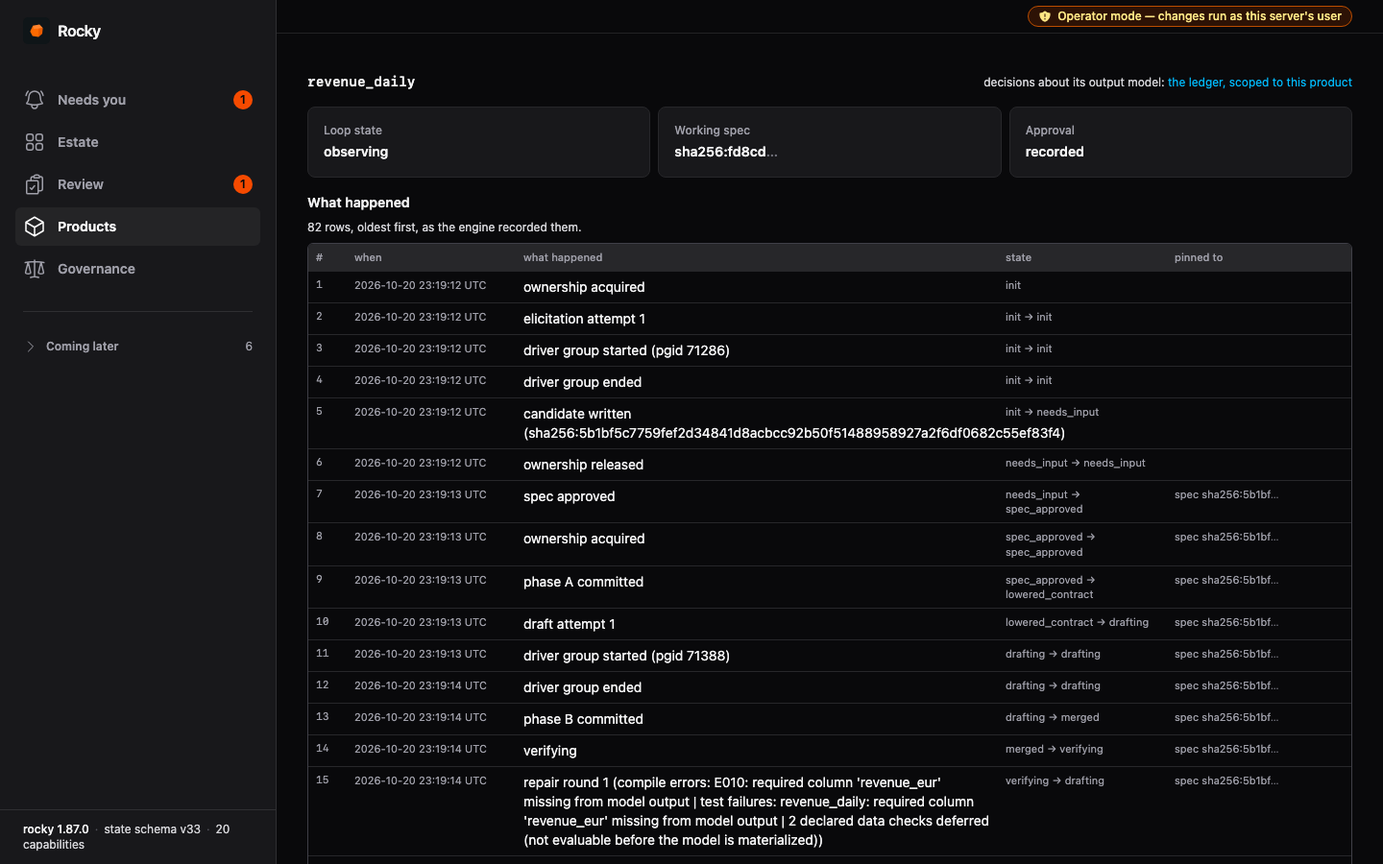
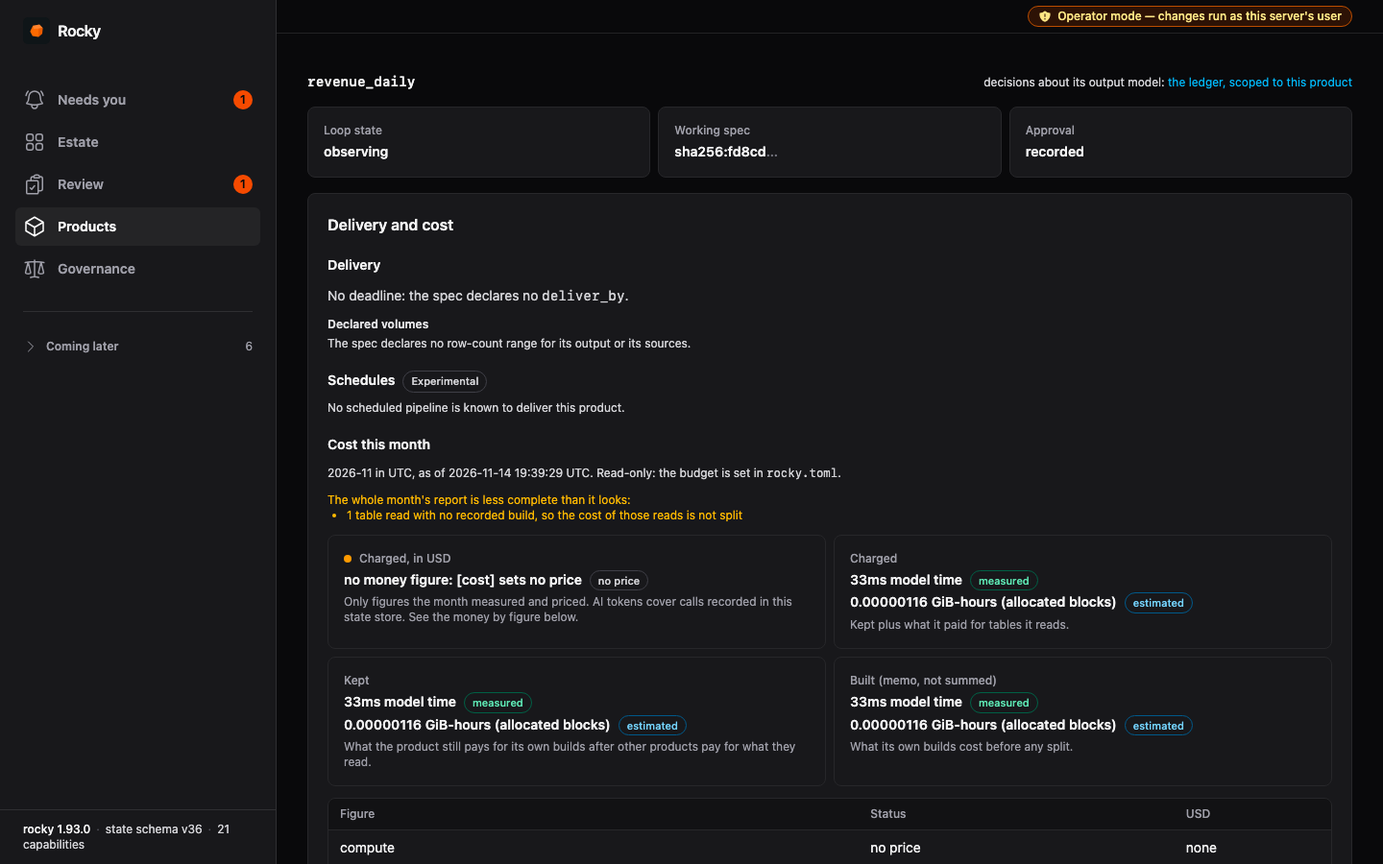
docs: refresh browser UI screenshots for engine 1.93.0; correct two superseded 1.93.0 changelog lines
Recaptured with cli-recording/record-ui-screenshots.sh from the released
1.93.0 binary; the published set showed 1.87.0 and state schema v33. The
product shot now opens on the Delivery and cost panel, so its alt text and
the tour GIF's alt text change too. The custody alt text gives the row
count the shot shows.

Two 1.93.0 Added lines described behaviour that later Fixed entries in the
same release changed (#2582, #2587). They now point to those entries, and
the upgrade notes no longer quote the old wording.

diff --git a/engine/CHANGELOG.md b/engine/CHANGELOG.md
@@ -21,19 +21,19 @@ and this project adheres to [Semantic Versioning](https://semver.org/spec/v2.0.0
   - Two-argument `IFNULL` and `NVL` now type like `COALESCE`. A contract type on such a column that was not checked before is now checked and can fail with `E011`. A column that was nullable can now be NOT NULL, except as a rolled-up key (next item).
   - Under `GROUP BY ROLLUP`, `CUBE` or `GROUPING SETS`, an output over a rolled-up key is now nullable (#2566). A `nullable = false` contract on it now fails with `E012`, because subtotal rows really hold NULL there. Set `nullable = true`. This includes a key that is in every grouping set or that a `HAVING` filters. An unaliased output under an outer join or a `ROLLUP` no longer keeps its source column's NOT NULL bit either.
   - Fewer, smaller changes in the same direction: `UNION`/`INTERSECT`/`EXCEPT BY NAME`, column-list aliases (#2572), `POSITIONAL JOIN`, `UPPER`/`LOWER`, `/` on a DuckDB-only model (a `Decimal` contract on it now fails with `E011`), and BigQuery and Snowflake column nullability. See Fixed.
-- **`rocky ai-contract` and the MCP `ai_contract` tool now read live types from the warehouse.** They describe every source table the drafted model and its upstream models read, and they profile on any configured warehouse, not only DuckDB. The credentials they run with need to describe those source tables and read the profiled table. On a metered warehouse a profile reads the whole table once per column, which costs money; `--sample` is still DuckDB only. Drafts can differ from 1.92.0 for the same model. A table that cannot be described is listed in the new `unresolved_sources`. In JSON, `profiled_table` and `fell_back_from` now carry the catalog when the target has one. Nothing is written to the schema cache or the state store. The MCP grounding tools now address a model target with the quoted `format_table_ref` (#2582, under Fixed); this supersedes the Added entry's "MCP still addresses a model target unquoted".
+- **`rocky ai-contract` and the MCP `ai_contract` tool now read live types from the warehouse.** They describe every source table the drafted model and its upstream models read, and they profile on any configured warehouse, not only DuckDB. The credentials they run with need to describe those source tables and read the profiled table. On a metered warehouse a profile reads the whole table once per column, which costs money; `--sample` is still DuckDB only. Drafts can differ from 1.92.0 for the same model. A table that cannot be described is listed in the new `unresolved_sources`. In JSON, `profiled_table` and `fell_back_from` now carry the catalog when the target has one. Nothing is written to the schema cache or the state store. The MCP grounding tools now address a model target with the quoted `format_table_ref` (#2582, under Fixed).
 - **Full refresh on Trino is now a staged swap that renames tables (RD-009).** This covers transformation and replication full refresh, branch promote and quarantine `mode = "drop"`. The connecting user needs permission to rename tables. On a Trino catalog that cannot rename tables (Hive on Glue), a full refresh of an existing table now fails with the table untouched. A Trino target whose name ends in `__rocky_stage` or `__rocky_old` is refused. Do not run two replacements of the same Trino table at once: one can fail and leave a table to drop by hand. On every warehouse a drift rebuild no longer drops the target first; on BigQuery it now fails, keeping the old table, when the existing table's partitioning or clustering differs. A branch-promote plan written before this release that carries a pre-drop is refused on every warehouse except Trino: re-plan it.
 - **DuckDB discovery no longer finds schemas in attached catalogs.** A replication pipeline that picked up tables from an attached catalog by schema prefix no longer replicates them.
 - **`rocky validate` adds `V067`.** It is an error when a `[connector.<name>]` manifest is missing or invalid, or its `command` names a program path that does not exist. It also refuses `trigger = true` on an Airbyte pipeline without `allow_sync_trigger = true`. Run `rocky validate` before rolling out if CI gates on it.
 - **A webhook spool that hides its entries is now refused, not read as empty (#1903).** On an SMB share with access-based enumeration, `rocky tick` now reports `spool_unreadable`, `rocky doctor` warns and `GET /api/v1/schedule/spool` returns `500`. Give the reading process read access to the spool.
-- **`rocky mcp` and `rocky lsp` now pick the state store as the CLI does (#2587):** `--state-path`, then `--state-namespace`, then `[state] namespacing = "pipeline"`. Under a namespace or an explicit path, `rocky mcp` reads decisions and the review queue from that store, not the default one. This supersedes the Added cost entry's "always use the default state file".
+- **`rocky mcp` and `rocky lsp` now pick the state store as the CLI does (#2587):** `--state-path`, then `--state-namespace`, then `[state] namespacing = "pipeline"`. Under a namespace or an explicit path, `rocky mcp` reads decisions and the review queue from that store, not the default one.
 - **`rocky cost --month` for the month you upgrade reports `ai_tokens` as `partial`.** AI usage is recorded from the first open at v35 on. If that month has recorded calls, the whole money total is `partial`, and a `max_usd` budget is `not_evaluated` unless the priced figures alone exceed it. Set `[cost] ai_cost_per_million_tokens` (and `cross_region_transfer_cost_per_gb` for egress), or those figures report `no_price`.
 - **Rust library API.** `SqlDialect::full_refresh_needs_predrop` is replaced by `SqlDialect::table_replace` and `SqlDialect::rename_table_sql`. `DiscoveryAdapter::source_sync_states` takes the `include` filter as a second argument. DuckDB `[[attach]]` entries are now the tagged enum `DuckDbAttach`; the Iceberg TOML is unchanged.
 
 ### Added
 
 - A scheduled run that a freeze held no longer spends its retries on a run that cannot succeed (#2569). When an active freeze marker withholds work, `rocky run` records a `hold` (`kind = "freeze"`, `freeze_id`, `scope`, `reason`) on the run record and on `RunOutput`. The exit code does not change. The scheduler reads it from the run record: no in-tick retry, `consecutive_failures` stays as it is, and the cursor records `freeze_hold`. A standing demand is re-probed every 15 minutes, a flat interval. A held cron or webhook occurrence is finished and not re-run when the freeze lifts. The first held run writes one `freeze_hold` incident bundle that names the freeze; later runs held by the same freeze write none, until a run that is not held, or a different freeze, starts a new episode. A held run counts as a hold even when it had other failures too. `rocky tick` counts held runs in the new `counts.held`, not in `counts.failed` or `counts.partial`, and a hold alone does not fail the tick. New public enum values: the skip reason `freeze_hold` (tick output, `rocky.scheduler.skipped` metric label) and the `rocky schedule status` throttle kind `freeze_hold`; a consumer with a closed enum must add them. `ExecutedRunOutput.hold` names the freeze. A run the fence stopped because the marker listing failed has no `hold`, and it stays an ordinary retryable failure. The run record and the cursor take the new fields without a schema bump.
-- `rocky profile` and `rocky ai-contract` run on any configured warehouse, not only DuckDB. The table reference comes from the adapter's dialect: the target gets the quoted `format_table_ref` that `rocky run` writes with, and a source fallback gets the unquoted `ground_table_ref`, so Snowflake still folds its case. Before, Rocky built a bare `schema.table` with no catalog and no quoting. A profile reads the whole table once per column, which costs money on a metered warehouse. `--sample` stays DuckDB only: on another warehouse the profile reports `unavailable`. `profiled_table` and `fell_back_from` now carry the catalog when the model's target has one (`wh.staging.raw_orders`, was `staging.raw_orders`). Rocky checks the table exists with a zero-row query through the exact ref it will profile, and a name the dialect cannot address makes the profile `unavailable`, not an error. A count the warehouse returns in a form Rocky cannot read is now an error: before, it was read as 0, which could back a wrong `nullable = false` draft. The MCP `ai_contract` tool now profiles with the same `profile_column` as the CLI, in its statistics-only mode. MCP still addresses a model target unquoted (#2582).
+- `rocky profile` and `rocky ai-contract` run on any configured warehouse, not only DuckDB. The table reference comes from the adapter's dialect: the target gets the quoted `format_table_ref` that `rocky run` writes with, and a source fallback gets the unquoted `ground_table_ref`, so Snowflake still folds its case. Before, Rocky built a bare `schema.table` with no catalog and no quoting. A profile reads the whole table once per column, which costs money on a metered warehouse. `--sample` stays DuckDB only: on another warehouse the profile reports `unavailable`. `profiled_table` and `fell_back_from` now carry the catalog when the model's target has one (`wh.staging.raw_orders`, was `staging.raw_orders`). Rocky checks the table exists with a zero-row query through the exact ref it will profile, and a name the dialect cannot address makes the profile `unavailable`, not an error. A count the warehouse returns in a form Rocky cannot read is now an error: before, it was read as 0, which could back a wrong `nullable = false` draft. The MCP `ai_contract` tool now profiles with the same `profile_column` as the CLI, in its statistics-only mode. The MCP tools then still addressed a model target unquoted; #2582, under Fixed, gives them the quoted `format_table_ref`.
 - A `type = "duckdb"` adapter can attach a DuckLake catalog: `[[adapter.<name>.attach]]` with `type = "ducklake"`, `alias`, `metadata_path` (a local DuckDB file) and an optional local `data_path` (an `s3://` data path is refused until it has a conformance case). `rocky run` writes models whose target catalog is the alias as DuckLake tables. A full refresh is an atomic `CREATE OR REPLACE TABLE`. `full_refresh`, `ephemeral`, `incremental`, `merge`, `delete_insert`, `time_interval` and replication are supported; `view`, `materialized_view`, `dynamic_table`, `microbatch`, `content_addressed`, `snapshot`, a lakehouse `format`, seeds, `rocky load`, quarantine and promote are refused before any SQL runs; a promote plan is refused when it is built and checked for every step before apply's first write. Rocky makes relative paths absolute, never overrides the lake's stored data path, and refuses a lake whose stored data path is relative. A `metadata_path` holding a `:` (`sqlite:`, `postgres:`, `:memory:`) is refused by `rocky validate`. `[[attach]]` entries are now a tagged enum (`DuckDbAttach::Iceberg` / `DuckDbAttach::DuckLake`) in `rocky-core`; the Iceberg TOML is unchanged. A live test runs in the non-required `ducklake-conformance` workflow; see `docs/adr/ADR-DUCKLAKE.md` and the `07-adapters/13-duckdb-ducklake` POC.
 - A `type = "duckdb"` adapter can attach Iceberg REST catalogs with `[[adapter.<name>.attach]]` (`alias`, `type = "iceberg"`, `warehouse`, `endpoint`, `authorization = "none"`, and an `s3` table that becomes a temporary DuckDB secret). `rocky run` and every other connecting command attach them; `rocky compile`, `rocky plan` and `rocky emit-sql` never connect, but render with the same aliases. A model whose target catalog is an alias is written as an Iceberg table. A first build is `CREATE TABLE … AS`. A full refresh of an existing table is one transaction: the model's rows go to a temporary table first (so a model that reads its own table sees the old rows), `ALTER TABLE` adds new columns, drops removed ones and widens types (`INTEGER` to `BIGINT`, `FLOAT` to `DOUBLE`, a wider `DECIMAL` precision), then `DELETE` and `INSERT … BY NAME`, then `COMMIT`. Any failure rolls it back and keeps the old table and rows. A `COMMIT` that fails without saying why is reported as possibly committed. A re-run with no change runs no `ALTER`. A narrowing, a nested type change, a new nested column or dropping a partition column is refused with the table unchanged. With more than one attachment, each `s3` table needs a `scope`. A commit conflict with another writer runs the transaction again, up to 3 times. Append `incremental` is supported too. Everything else on an attached catalog is refused before any model runs, naming the strategy and the catalog: views, `merge`, `incremental` with a `unique_key` or a `lookback`, `delete_insert`, `time_interval`, `microbatch`, snapshots, quarantine, branch promote, seeds, `rocky load`, a lakehouse `format`, a replication full refresh of an existing table, and replacing an object of another kind. New: `SqlDialect::table_replace` can return `TableReplace::InPlaceOverwrite`, and `WarehouseAdapter::overwrite_in_place` runs it. POC: `07-adapters/09-duckdb-iceberg-rest`. ADR: `docs/adr/ADR-ICEBERG-DUCKDB.md`.
 - `rocky validate` checks each `[connector.<name>]` manifest offline (`V067`): `ok` when the manifest reads and its program exists, and an error when the manifest is missing or invalid, or when its `command` names a program path that does not exist. A bare program name is looked up on `PATH` at run time and is not checked.
@@ -41,7 +41,7 @@ and this project adheres to [Semantic Versioning](https://semver.org/spec/v2.0.0
 - `[pipeline.<name>.source.discovery.sync]` now works on an Airbyte discovery adapter, not only on Fivetran. `wait = true` waits for a running Airbyte job before `rocky run` reads the source. `trigger = true` starts one sync first, with `POST /v1/jobs` and `jobType = "sync"`, never a reset. It needs the same two opt-ins as Fivetran: `allow_sync_trigger = true` on `[adapter.<name>]` and `trigger = true` on the pipeline. Without the adapter's opt-in the Airbyte adapter sends no request. Each poll reads the connection list and the 25 newest jobs of each active selected connection, up to 10 reads at a time. The jobs must come newest first, or the read fails. A connection is syncing while its newest job has not ended, a reset or clear included. A stale unended job behind a newer ended one is ignored. `succeeded_at` and `failed_at` are the latest `lastUpdatedAt` of a `sync` or `refresh` job that succeeded, or that failed or was cancelled. A `reset` or `clear` job sets neither. An `inactive` connection, or one with an unknown status, counts as paused and its jobs are not read. A `deprecated` one is left out. A `2xx` answer to the sync request counts only if its body is a `sync` job, and a connect timeout is `Failed`, not `Unknown`. A `409` (a sync already runs) is waited out and not counted, as on Fivetran. `rocky validate` now accepts `wait = true` on `type = "airbyte"`, and refuses `trigger = true` there without `allow_sync_trigger = true`. New page: the Airbyte adapter reference.
 - An `error` volume breach on a product output now stays open until the output is rebuilt (#2581). Before, it failed the model only in the run that wrote the breached rows. The next in-range load passed and downstream built on the breached rows. Now the breach opens a marker in the new replicated state table `product_volume_breaches` (state schema 36). While a marker is open, every run that builds the model fails it, even when that run's load is in range, so downstream stays withheld. The load still writes its rows. The error names when the breach opened, the breached partitions, and the two ways to clear it. A rebuild clears the marker once it is judged in range: for an incremental, merge or full-refresh output, a build that created or replaced the whole table (a first run, `--full-refresh`, a drift rebuild); for a time-interval output, a rewrite of each breached partition (`--missing`, `--partition`, `--from`/`--to`). The marker goes when its last partition is clear. The new `rocky product clear-breach <name> --model <model>` deletes a marker by hand, and reports whether one was open. `rocky product status` gains `open_volume_breaches`, and `VolumeCheckOutput` gains `held_by_open_breach`. A `warning` breach opens no marker. A shadow or branch run neither reads nor writes markers. A marker is written right after the model's judgment. A failed write of a new marker fails the model. A failed delete only warns, and the marker stays. A v35 store opened for writing gets the empty table. A run that does not build a held output (`rocky run --model <downstream>`) withholds the models downstream of it, with the same message, so they do not build over the breached rows. A cancel after the write no longer skips the count, so a breach the cancelled run wrote still opens its marker. `rocky product clear-breach` reads `[state]` from `rocky.toml` and clears the marker inside a remote-state session: it downloads the state first, refuses when the download fails, and uploads the delete before it reports `was_open: true`. `rocky product status` reads the local state file only; with a remote state backend it now warns that its open breaches may lag another machine. On Valkey, or with `concurrency_control = "off"`, `clear-breach` warns that a run already in flight can upload the marker back. The `--skip-unchanged` gate always builds a held output, so the check can fail it. With a remote backend the marker reaches other machines when the run uploads its state, under the run's `on_upload_failure` policy; an ungoverned run whose state download fails continues without it, as for any state table.
 - `[product.output.volume]` now works on incremental, merge and time-interval outputs, not only full-refresh ones. On those outputs the range judges one load, not the table's total. An incremental output counts the rows its `INSERT` added, as the adapter reports them. With no report, it uses the table's `COUNT(*)` after the write minus its `COUNT(*)` before. When both exist and differ, the verdict is `not_evaluated`. This assumes the run is the table's only writer: another writer makes the two disagree, or, with no reported count, shifts the growth. A merge output, or an incremental one with a `unique_key`, counts the rows its one `MERGE` inserted or updated, as the warehouse reports them. A matched row counts even when its values did not change. A run that sends more than one statement has no count. A time-interval output is judged one partition at a time: each partition is counted with its own time window and judged against the whole range. A run that created or rebuilt the table counts every row in it. An `error` breach acts as on a full-refresh output: the model is marked failed after its write, `on_model_error` fires, downstream models are withheld, the run is partial and no `due_at` is stamped. The rows are not rolled back. The breach also opens a breach marker that keeps the model failed in later runs until it is rebuilt (#2581, next bullet). On a time-interval output, one partition at `error` fails the model. Only the breaching partitions are marked failed in the run record, and the model delivers nothing in that run: no partition of it gets a `due_at`, and the run does not count as the model's latest delivery. The other partitions stay successes in the record. A breaching partition is also recorded `failed` in the partition state, so `--missing`, `--partition` or `--from`/`--to` rewrite it and judge it again. Partitions written before another partition failed to run are judged too. On an incremental or merge output each load is judged alone, but an open breach marker keeps the model failed. The remedy is `--full-refresh`, which judges the whole table. `rocky product status` shows the newest build's verdict, and lists open breaches. A count Rocky cannot take exactly is `not_evaluated`, never a failure: a merge on an adapter that reports no row count (Databricks, Snowflake, BigQuery, Trino, Redshift), a missing count from before the write, or a table that lost rows during the run. Every `not_evaluated` check now adds a `volume_warnings` line with its reason, at either severity. `rocky product verify` accepts these outputs and still refuses views, ephemeral models, materialized views, dynamic tables, `delete_insert`, snapshot and content-addressed outputs (`volume-strategy-unsupported`). It also refuses a merge-basis range at `severity = "error"` when the model's adapter is Databricks, Snowflake, BigQuery, Trino or Redshift (`volume-merge-count-unavailable`), because every run there would be `not_evaluated`. When verify cannot tell the model's adapter, it passes with a `WARNING [volume-merge-count-unknown-adapter]` in its reason. On these outputs the Phase-B lowering writes no `row_count_range` test, which would count the whole table, and keeps a worker's own one. Phase B now refuses (`volume-strategy-unresolved`) when the spec declares a volume and the output model does not load. The run history now stores each check with its basis (`RunRecord.output_volumes`, one row per judged load or partition). `rocky product status` reports the newest production build's check, not the newest build that took a count. An older count no longer hides a newer build that took none: that build is `not_evaluated`. A stored count is judged only on the basis it was taken on. JSON: `VolumeCheckOutput` gains `basis` (`total_rows`, `rows_added`, `rows_touched`, `partition_rows`), and a time-interval output carries one check on each written partition. `ProductVolumeStatus` gains `basis` and `reason`. The DuckDB adapter now reports `rows_affected` for one `INSERT`, `UPDATE`, `DELETE` or `MERGE` statement. SQL Server now reports a row count only when exactly one statement in the batch touched rows. A trigger's rows no longer stand in for the write's. An unknown `basis` in a stored `output_volumes` row now reads as no basis instead of failing the run record.
-- `rocky cost --month <YYYY-MM> --by product` now meters AI tokens and egress. AI tokens: every AI call that returns a response is recorded, from `rocky ai`, `rocky ai-sync`, `rocky ai-explain`, `rocky ai-test`, `rocky ai-contract`, the LSP code actions and the MCP tools. The report charges a call to the product that owns the model it names, and any other call to `unallocated`. Two new units, `ai_input_tokens` and `ai_output_tokens`, share one money figure, `ai_tokens`, priced by `[cost] ai_cost_per_million_tokens` (one blended price). Recorded AI usage with no price gives `no_price`, not a low total. A call whose response gave no token counts adds nothing and is counted in `not_measured.ai_calls_without_usage`. The figure covers calls recorded in this state store only, and it is developer spend. State schema 35 adds a local-only `ai_usage` table. It holds a reserved row, `ai_usage_since` (not a `METADATA` key, because `METADATA` replicates), stamped when a store first opens at v35. A month that began before the stamp reports the `ai_tokens` part as `partial`. If that month has recorded calls, the whole money total is `partial` too, with no `money`, and a `max_usd` budget is `not_evaluated` unless the priced figures alone exceed the limit. With no recorded calls, the part is only listed and the rest of the month is priced. The LSP and MCP servers never write the state store: they append to `<state file name>.ai-usage.jsonl` (owner-only, under a file lock; the name is appended to the full file name, so `a.redb` and `a.db` do not share one), and the next process that holds the writer (`rocky run`, or `rocky ai` on a store already at schema 35) moves the lines into the table, skipping a call it already holds. `rocky ai` on an older store spools instead of upgrading it in place, so a pinned older binary can still open that store; a month with such calls reads `partial`. The spool has no size limit while no process drains it. `rocky cost` reads both, once per call, and attributes a call by who owns the model when the report runs. The LSP and MCP servers always use the default state file, not `--state-path` or `--state-namespace`; `rocky cost` warns when the default store's spool holds calls it does not read. A spool line that is not valid UTF-8 or JSON spoils only itself. Lines and rows that cannot be read are counted in `not_measured.ai_records_dropped`; a drain keeps its count in the store, so the loss stays visible after the spool is emptied. `[state.retention]` domain `history` also sweeps AI calls older than `max_age_days`. Egress: `egress_bytes` is new on `ExecutionStats`, `MaterializationOutput` and the stored model execution, and the new unit `egress_bytes` is split like model time and priced by `[cost] cross_region_transfer_cost_per_gb`. No adapter reports egress yet. When some executions report it and others do not, the report prices the reported sum and counts the rest in `not_measured.egress_unreported_executions`. For both figures, `0` is a valid explicit price, and an unset price is `no_price`. A `no_price` table view names the missing `[cost]` keys. A `max_usd` budget with a priced part over the limit is `breached` even when another figure has no price. A reported zero of egress or AI tokens counts as measured, and is priced at $0. Egress that a failed execution with no output table reported is charged to `unallocated`. JSON: `ProductMonthCostOutput.not_measured` gains `egress_unreported_executions`, `ai_calls_without_usage` and `ai_records_dropped`, `CostUnit` gains `egress_bytes`, `ai_input_tokens` and `ai_output_tokens`, `MoneyFigure` keeps `egress` and `ai_tokens`, and `MaterializationOutput` gains `egress_bytes`. `SweepReport` gains `ai_usage_deleted` and `ai_usage_kept`.
+- `rocky cost --month <YYYY-MM> --by product` now meters AI tokens and egress. AI tokens: every AI call that returns a response is recorded, from `rocky ai`, `rocky ai-sync`, `rocky ai-explain`, `rocky ai-test`, `rocky ai-contract`, the LSP code actions and the MCP tools. The report charges a call to the product that owns the model it names, and any other call to `unallocated`. Two new units, `ai_input_tokens` and `ai_output_tokens`, share one money figure, `ai_tokens`, priced by `[cost] ai_cost_per_million_tokens` (one blended price). Recorded AI usage with no price gives `no_price`, not a low total. A call whose response gave no token counts adds nothing and is counted in `not_measured.ai_calls_without_usage`. The figure covers calls recorded in this state store only, and it is developer spend. State schema 35 adds a local-only `ai_usage` table. It holds a reserved row, `ai_usage_since` (not a `METADATA` key, because `METADATA` replicates), stamped when a store first opens at v35. A month that began before the stamp reports the `ai_tokens` part as `partial`. If that month has recorded calls, the whole money total is `partial` too, with no `money`, and a `max_usd` budget is `not_evaluated` unless the priced figures alone exceed the limit. With no recorded calls, the part is only listed and the rest of the month is priced. The LSP and MCP servers never write the state store: they append to `<state file name>.ai-usage.jsonl` (owner-only, under a file lock; the name is appended to the full file name, so `a.redb` and `a.db` do not share one), and the next process that holds the writer (`rocky run`, or `rocky ai` on a store already at schema 35) moves the lines into the table, skipping a call it already holds. `rocky ai` on an older store spools instead of upgrading it in place, so a pinned older binary can still open that store; a month with such calls reads `partial`. The spool has no size limit while no process drains it. `rocky cost` reads both, once per call, and attributes a call by who owns the model when the report runs. The LSP and MCP servers pick the state store as the CLI does (#2587, under Fixed); `rocky cost` warns when the default store's spool holds calls it does not read. A spool line that is not valid UTF-8 or JSON spoils only itself. Lines and rows that cannot be read are counted in `not_measured.ai_records_dropped`; a drain keeps its count in the store, so the loss stays visible after the spool is emptied. `[state.retention]` domain `history` also sweeps AI calls older than `max_age_days`. Egress: `egress_bytes` is new on `ExecutionStats`, `MaterializationOutput` and the stored model execution, and the new unit `egress_bytes` is split like model time and priced by `[cost] cross_region_transfer_cost_per_gb`. No adapter reports egress yet. When some executions report it and others do not, the report prices the reported sum and counts the rest in `not_measured.egress_unreported_executions`. For both figures, `0` is a valid explicit price, and an unset price is `no_price`. A `no_price` table view names the missing `[cost]` keys. A `max_usd` budget with a priced part over the limit is `breached` even when another figure has no price. A reported zero of egress or AI tokens counts as measured, and is priced at $0. Egress that a failed execution with no output table reported is charged to `unallocated`. JSON: `ProductMonthCostOutput.not_measured` gains `egress_unreported_executions`, `ai_calls_without_usage` and `ai_records_dropped`, `CostUnit` gains `egress_bytes`, `ai_input_tokens` and `ai_output_tokens`, `MoneyFigure` keeps `egress` and `ai_tokens`, and `MaterializationOutput` gains `egress_bytes`. `SweepReport` gains `ai_usage_deleted` and `ai_usage_kept`.
 
 ### Fixed
 

diff --git a/docs/src/content/docs/guides/browser-ui.md b/docs/src/content/docs/guides/browser-ui.md
@@ -7,7 +7,7 @@ sidebar:
 
 `rocky serve --ui` serves a browser UI for one project. It shows the project's models and runs, the plans waiting for a human, and the policy decisions and product history the engine recorded. On your own machine, the UI can also make changes (see [Operator mode](#operator-mode)). Every value on the page comes from a typed `/api/v1` payload. Most of those payloads are the same ones the CLI prints with `--output json`.
 
-![A tour of the Rocky browser UI: the estate with its DAG, the review queue, an agent's breaking change awaiting a human, the governor brief, a model's custody chain, and a data product's journal](/demo-ui-tour.gif)
+![A tour of the Rocky browser UI: the estate with its DAG, the review queue, an agent's breaking change awaiting a human, the governor brief, a model's custody chain, and a data product's delivery and cost](/demo-ui-tour.gif)
 
 The UI ships inside the release binaries and the container image. A sidebar lists eleven areas. Five open a screen today:
 
@@ -141,7 +141,7 @@ Apply runs the models as they are on disk, not SQL stored in the plan. So it che
 
 Products shows each [data product](/reference/commands/products/): its fulfillment loop state, its working spec digest, whether its approval is recorded, and its journal. The journal lists every event the engine recorded for the product, in order.
 
-![The products screen for revenue_daily: the loop state is observing, the approval is recorded, and the journal lists 82 events from ownership acquired through elicitation, spec approval, drafting and repair](/ui-governor-product.png)
+![The products screen for revenue_daily: the loop state is observing, the approval is recorded, and the Delivery and cost panel shows no deadline, no declared volumes, no known schedule, and this month's cost with no money figure because [cost] sets no price](/ui-governor-product.png)
 
 In operator mode, a product whose spec has no approval, or whose working spec differs from the approved one, shows an **Approve the spec** section. See [Approve a product spec](#approve-a-product-spec).
 
@@ -167,7 +167,7 @@ The scorecard shows acceptance, review and denial rates for a window you pick. G
 
 Enter a subject to trace its chain of custody. A subject is a model, a run id, a plan id, or another id the ledger records, such as `freeze:global`. It shows the decisions about it, the plan, the runs that applied it, any verification after apply, and its blast radius. It matches `rocky audit --for <subject>`.
 
-![The Custody tab for the model revenue_daily: ten policy decisions, the latest plan, two apply runs, no verification row, and a blast radius of zero downstream models](/ui-governor-custody.png)
+![The Custody tab for the model revenue_daily: a table of twelve policy decisions, agent proposals and breaking-change evaluations and the human approvals that applied them](/ui-governor-custody.png)
 
 ### Audit
 
